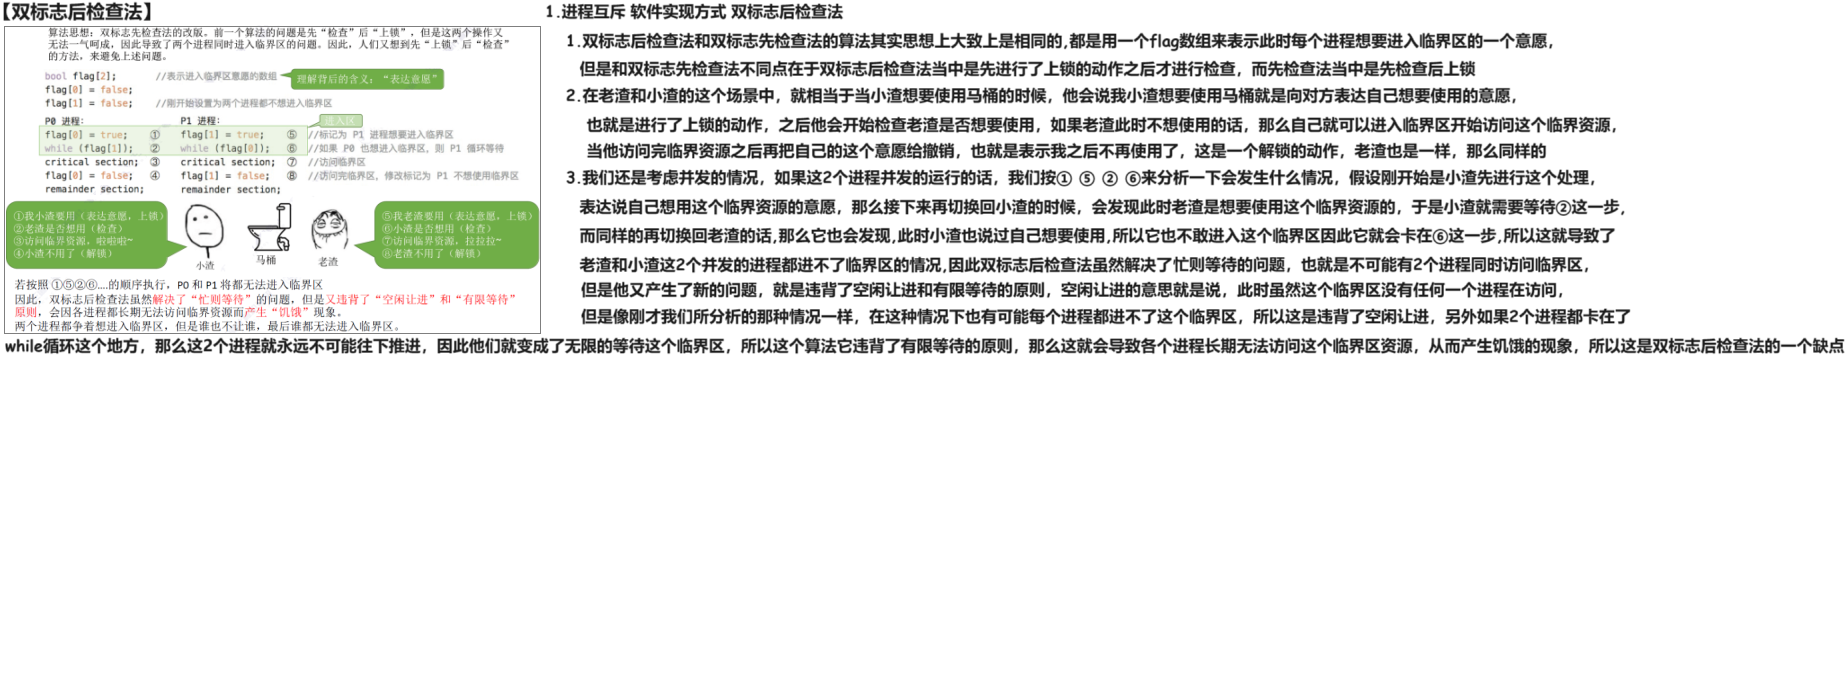
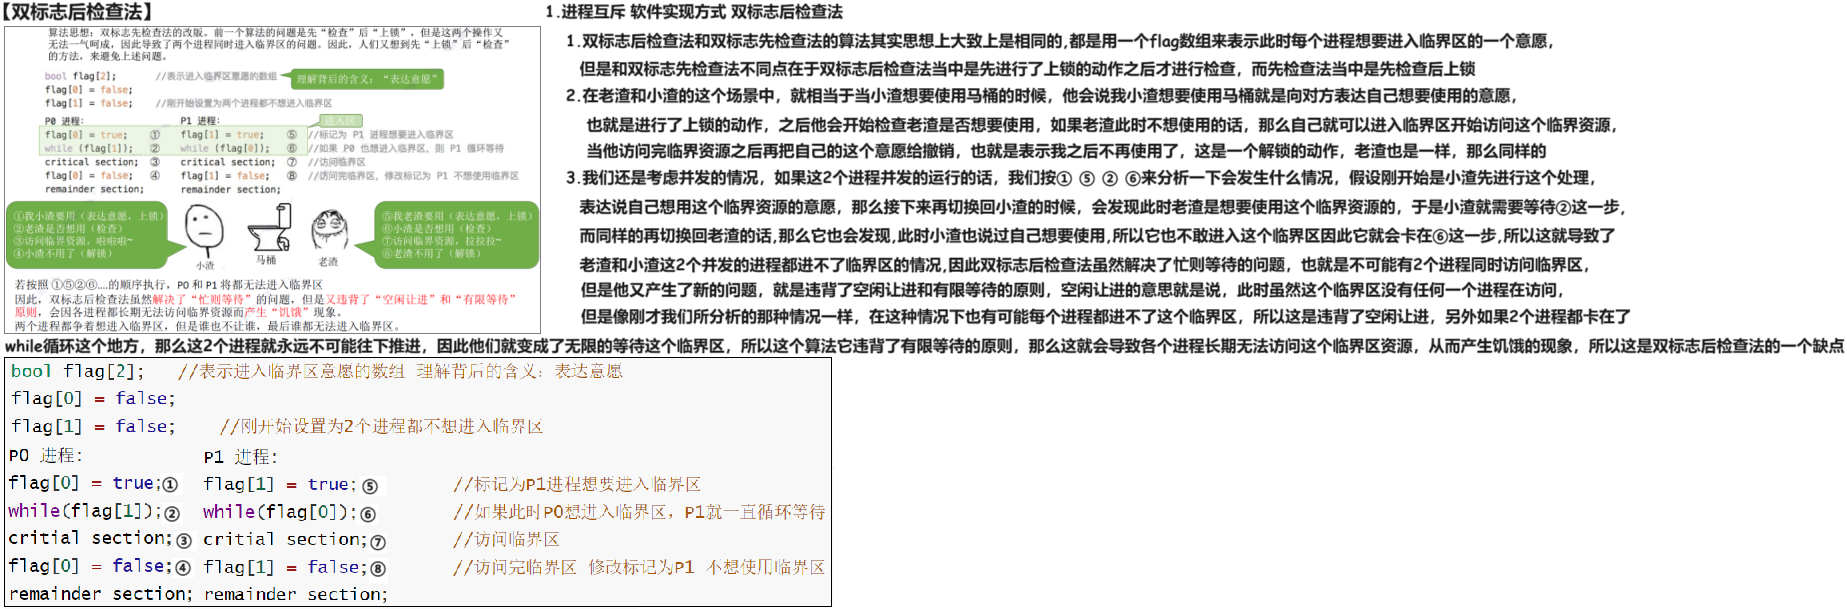
240531

Changed region(s): [[0.0, 0.0, 1.0, 0.9984], [0.2469, 0.78, 0.4629, 0.9672]]

diff --git a/01 初试/01 OS/02 24 25 王道/01 基础/02 进程 线程/03 同步 互斥/02 进程互斥 软件实现方法 240531/02 消化/02 Doc.md b/01 初试/01 OS/02 24 25 王道/01 基础/02 进程 线程/03 同步 互斥/02 进程互斥 软件实现方法 240531/02 消化/02 Doc.md
@@ -28,13 +28,13 @@
 
 # 05 双标志后检查法
 
-
+<img src="https://cvp.oss-cn-shanghai.aliyuncs.com/picgo/202405311850871.png" style="zoom:50%;" />
 
 
 
 # 06 Peterson 算法
 
-<img src="https://cvp.oss-cn-shanghai.aliyuncs.com/picgo/202404301444618.png" alt="image-20240430144400203" style="zoom:50%;" />
+
 
 
 
